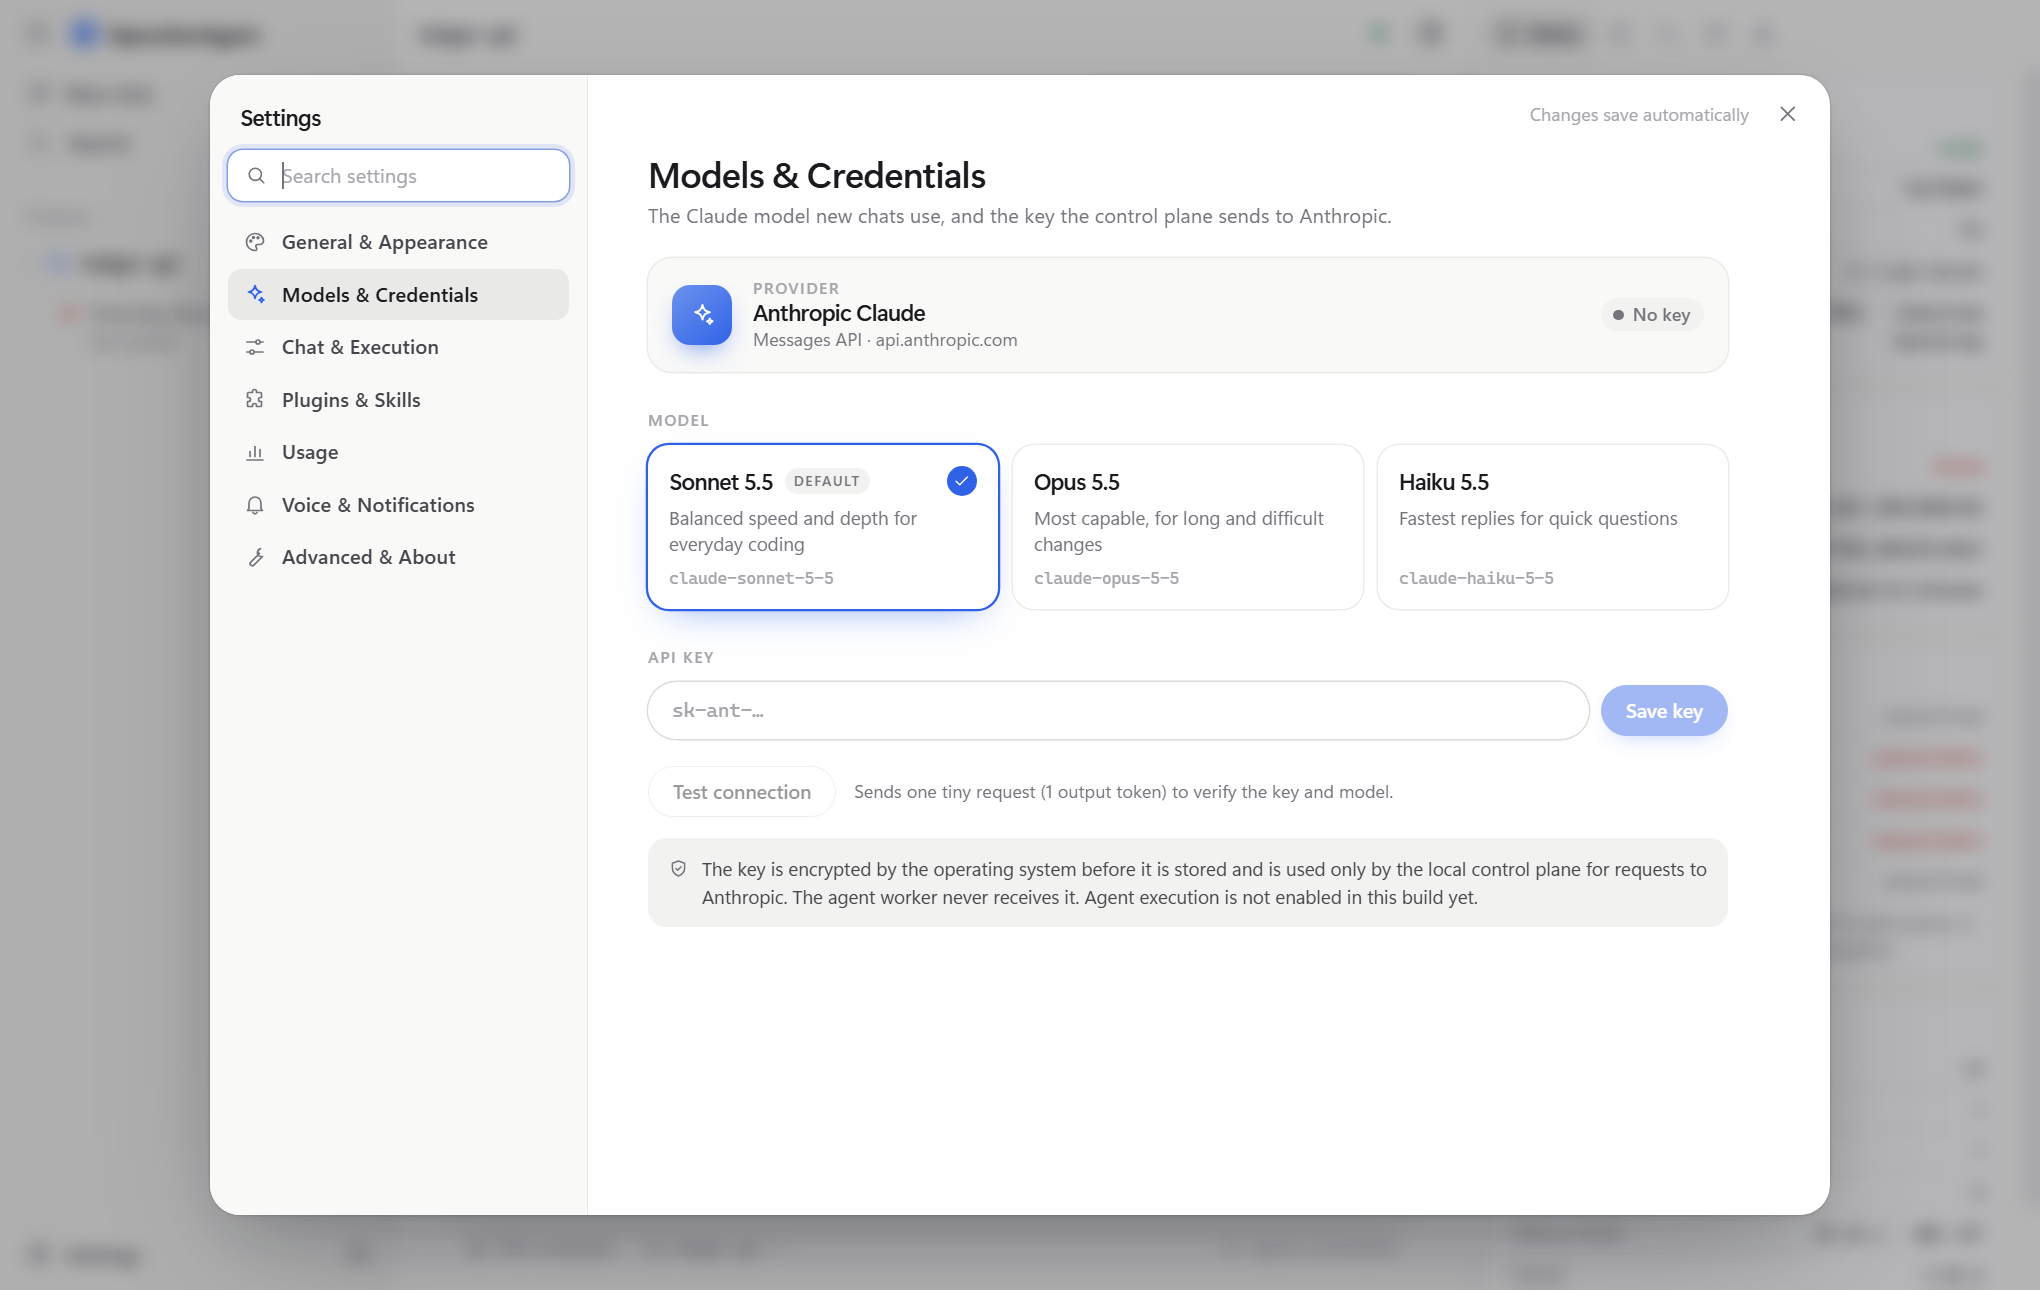
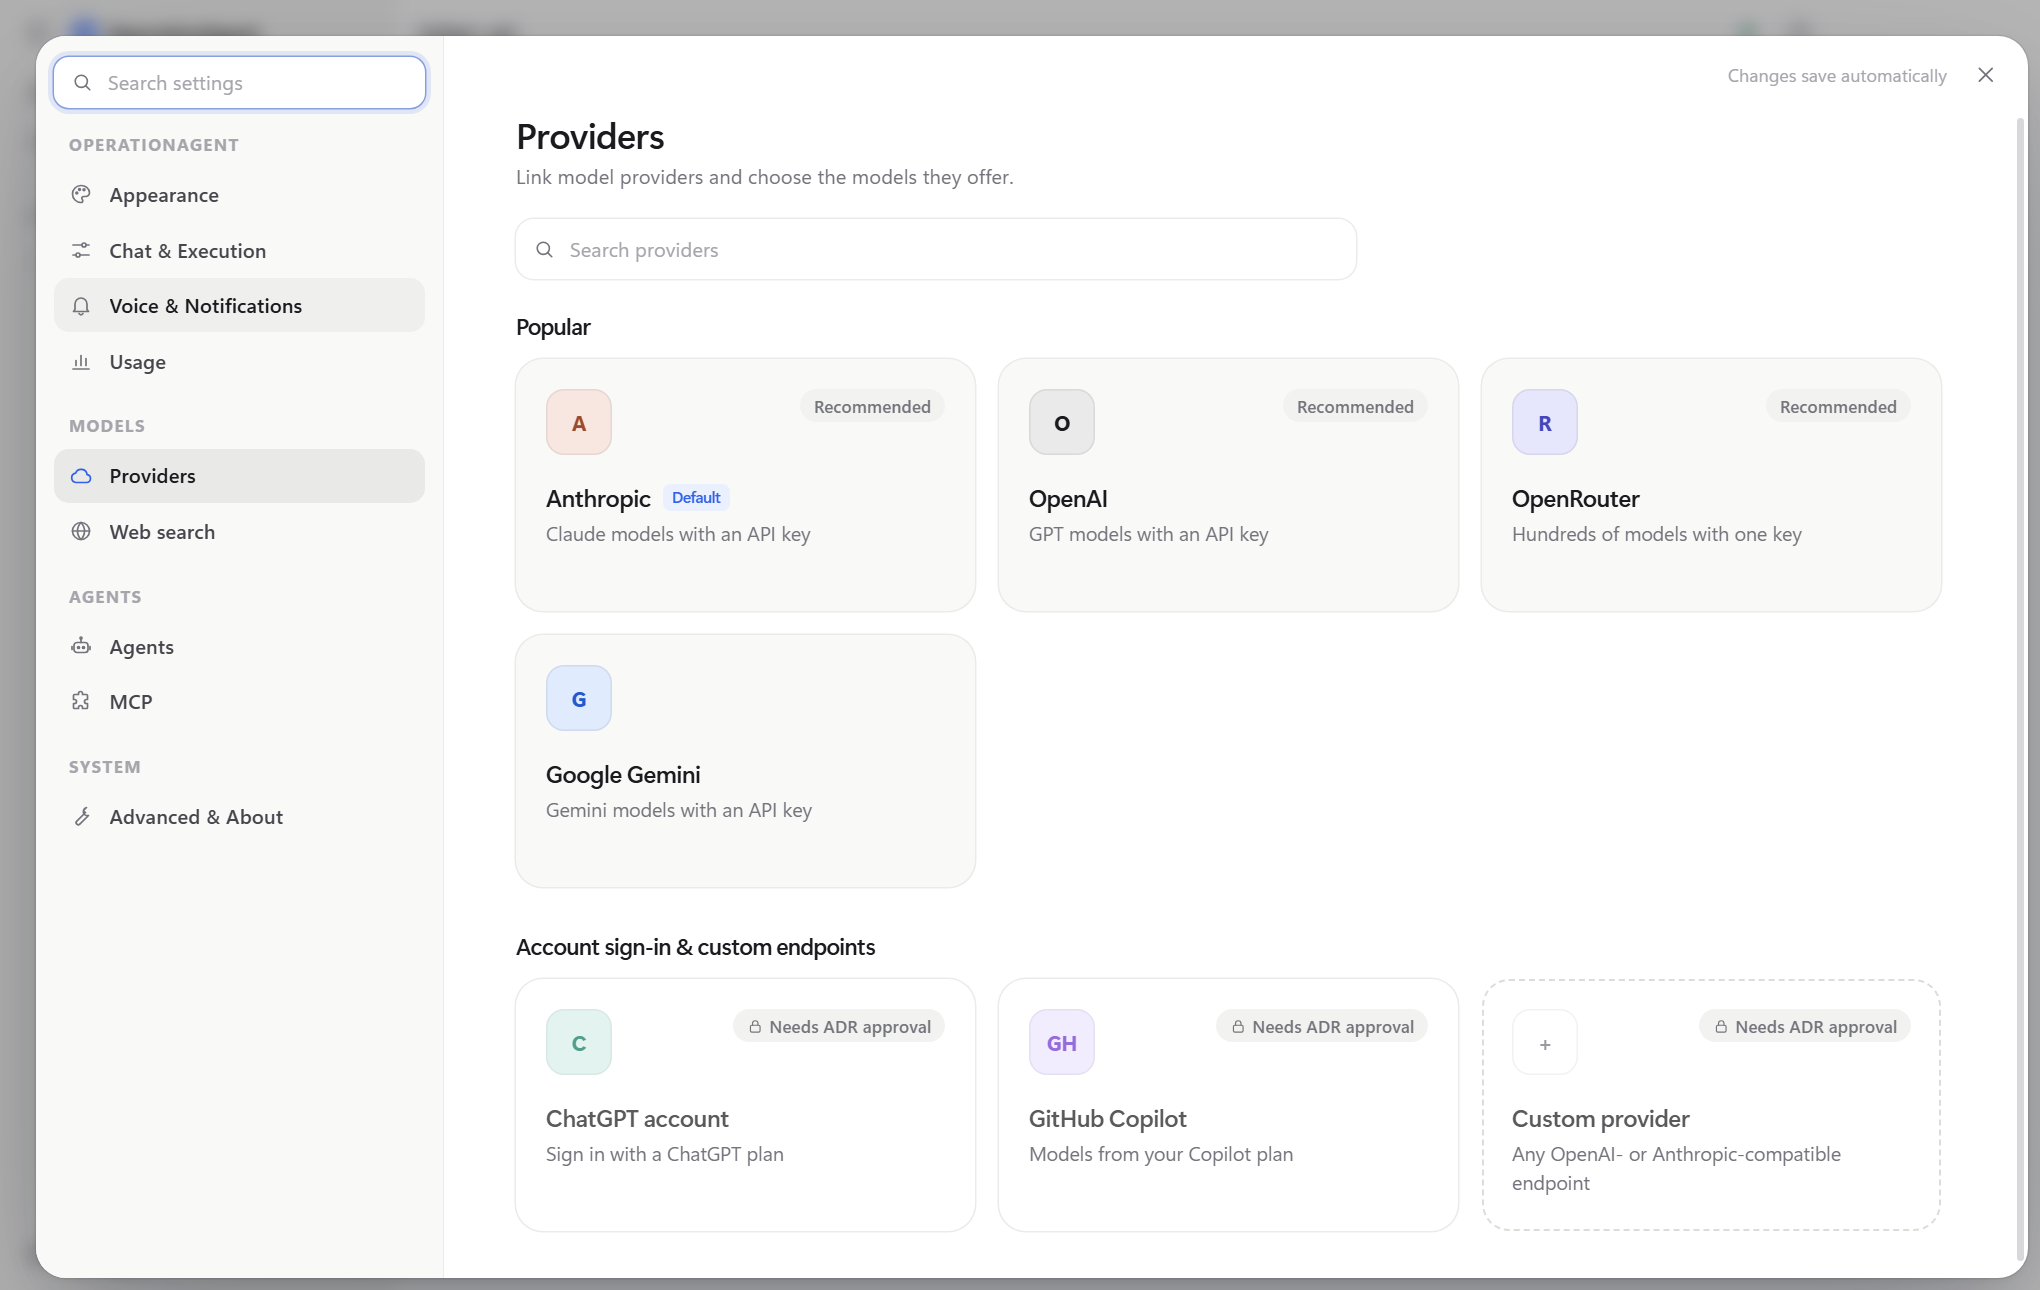
OperationAgent write-up: screenshots from the merged M2 settings build
Replace the three OperationAgent screenshots with captures of main after
PR #10 (refused task, Providers settings, Agent profiles in dark theme),
add Chinese-UI versions for the Chinese page, and update captions.

diff --git a/src/work/operationagent.ts b/src/work/operationagent.ts
@@ -2,6 +2,9 @@ import type { CaseStudy } from './types';
 import workbench from '../assets/work/operationagent/workbench.png';
 import settings from '../assets/work/operationagent/settings.png';
 import dark from '../assets/work/operationagent/dark.png';
+import workbenchZh from '../assets/work/operationagent/workbench-zh.png';
+import settingsZh from '../assets/work/operationagent/settings-zh.png';
+import darkZh from '../assets/work/operationagent/dark-zh.png';
 
 const C = [20, 215, 420, 625, 820, 1010];
 const R = [24, 134, 244, 354, 464];
@@ -215,18 +218,21 @@ export const operationagent: CaseStudy = {
   screens: [
     {
       image: workbench,
+      zh: workbenchZh,
       alt: { en: 'OperationAgent workbench on Windows: a task refused by the control plane, with the status panel showing agentReady false', zh: 'Windows 上的 OperationAgent 工作台：任务被控制面拒绝，状态面板显示 agentReady 为 false', ja: 'Windows 上の OperationAgent のワークベンチ。コントロールプレーンがタスクを拒否し、ステータスパネルに agentReady false と表示されている' },
       caption: { en: 'Today’s build refuses the task instead of running it unprotected', zh: '当前版本会直接拒绝任务，而不是在没有保护的情况下执行', ja: '現在のビルドは、保護なしで実行せずにタスクを拒否する' },
     },
     {
       image: settings,
-      alt: { en: 'Models & Credentials settings with Claude model choices and an API key field', zh: '模型与凭据设置：Claude 模型选择和 API Key 输入框', ja: 'Claude モデルの選択と API キー欄がある「Models & Credentials」設定' },
-      caption: { en: 'Model settings: the key is encrypted by the OS and never reaches the worker', zh: '模型设置：API Key 由操作系统加密，Worker 永远拿不到', ja: 'モデル設定：キーは OS で暗号化され、Worker には渡らない' },
+      zh: settingsZh,
+      alt: { en: 'Providers settings: Anthropic, OpenAI, OpenRouter and Google Gemini, with account sign-in and custom endpoints locked', zh: '供应商设置：Anthropic、OpenAI、OpenRouter 和 Google Gemini，账号登录与自定义端点处于锁定状态', ja: 'プロバイダー設定。Anthropic、OpenAI、OpenRouter、Google Gemini があり、アカウントログインとカスタムエンドポイントはロックされている' },
+      caption: { en: 'Providers: keys are encrypted by the OS and never reach the worker', zh: '供应商设置：密钥由操作系统加密，Worker 拿不到', ja: 'プロバイダー：キーは OS で暗号化され、Worker には渡らない' },
     },
     {
       image: dark,
-      alt: { en: 'The workbench in dark theme, with the Files panel explaining that file reading is locked', zh: '深色主题下的工作台，文件面板说明读取文件的能力尚未开放', ja: 'ダークテーマのワークベンチ。Files パネルにファイル読み取りがロックされている理由が表示されている' },
-      caption: { en: 'Locked features say why they are locked', zh: '尚未开放的功能，都会说明原因', ja: 'ロック中の機能は、その理由を表示する' },
+      zh: darkZh,
+      alt: { en: 'Agent profiles in the dark theme: four built-in agents and an empty custom list', zh: '深色主题下的 Agent 配置：四个内置 Agent，自定义列表为空', ja: 'ダークテーマのエージェント設定。組み込みエージェントが 4 つあり、カスタムはまだない' },
+      caption: { en: 'Agent profiles are saved as settings until the agent loop exists', zh: 'Agent 配置：在 Agent Loop 完成前只作为设置保存', ja: 'エージェントのプロファイルは、ループができるまで設定として保存されるだけ' },
     },
   ],
   lessons: [
